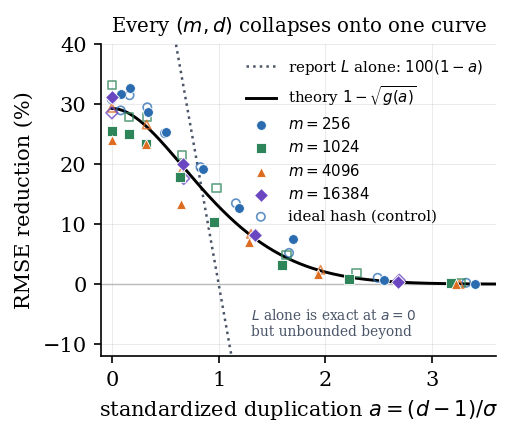
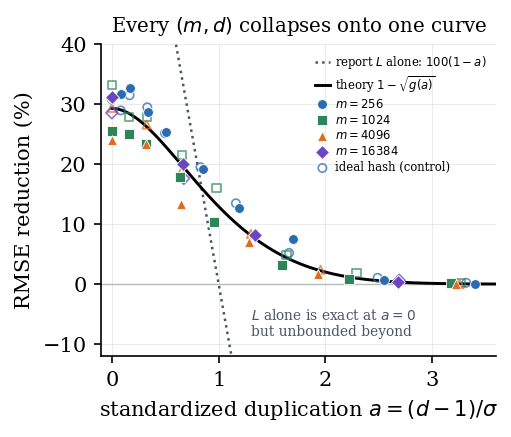
figure update 4

diff --git a/paper/make_figures.py b/paper/make_figures.py
@@ -123,7 +123,11 @@ def fig_collapse():
     ax.axhline(0, color="0.75", lw=0.7, zorder=1)
     ax.annotate("$L$ alone is exact at $a{=}0$\nbut unbounded beyond",
                 xy=(1.30, -6.5), fontsize=6.6, color=C["gray"], ha="left", va="center")
-    ax.legend(fontsize=7.2, ncol=1, loc="upper right")
+    # smaller box tucked into the clear upper-right corner so it stops crowding
+    # the a~1 data cluster and the descending curve
+    ax.legend(fontsize=5.6, ncol=1, loc="upper right", framealpha=0.9,
+              handlelength=1.3, handletextpad=0.45, borderaxespad=0.5,
+              labelspacing=0.25, borderpad=0.32)
     save(fig, "fig2_collapse")
 
 
@@ -316,10 +320,10 @@ def fig_dbcolumns():
             y = [r["gain_pct"] for r in pts]
             ax.plot(x, y, color=colr, lw=1.0, ls="--", alpha=0.75, zorder=4)
             # (bootstrap CIs are reported per point in the text, not drawn here)
-            # no legend row: the caption already explains these open "duplicate
-            # injection" markers, and dropping the long label keeps the box small
             ax.scatter(x, y, s=22, marker=mk, facecolor="none", edgecolor=colr,
-                       linewidth=1.1, zorder=5)
+                       linewidth=1.1, zorder=5,
+                       label="same keys, added duplicates"
+                       if col == sorted({r["column"] for r in rows})[0] else None)
 
     # (the four key columns at a=0 are named in the caption; no label needed here)
     ax.annotate(f"{len(other)} non-key columns,\nall exactly $0.0\\%$",
@@ -331,11 +335,7 @@ def fig_dbcolumns():
     ax.set_xlabel(r"standardized duplication $a=(d-1)/\sigma$")
     ax.set_ylabel("RMSE reduction (%)")
     ax.set_title("Database columns fall on the same curve", fontsize=9.5)
-    # four short entries -> a small box that tucks into the top-right corner
-    # with clear air between it and the descending curve
-    ax.legend(fontsize=6.3, loc="upper right", framealpha=0.92,
-              handlelength=1.4, handletextpad=0.5, borderaxespad=0.6,
-              labelspacing=0.3)
+    ax.legend(fontsize=6.8, loc="upper right", framealpha=0.9)
     save(fig, "fig7_dbcolumns")
 
 
